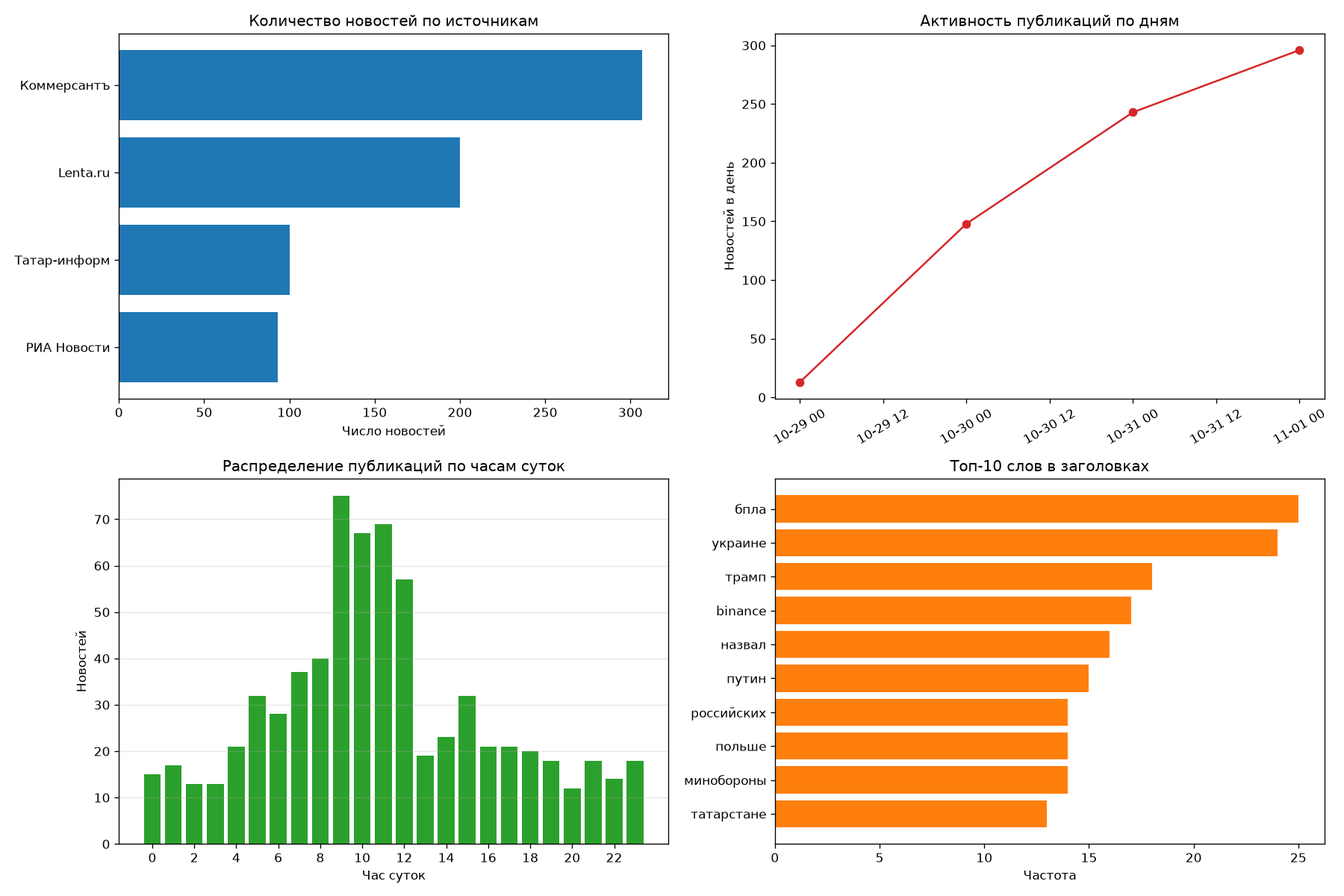
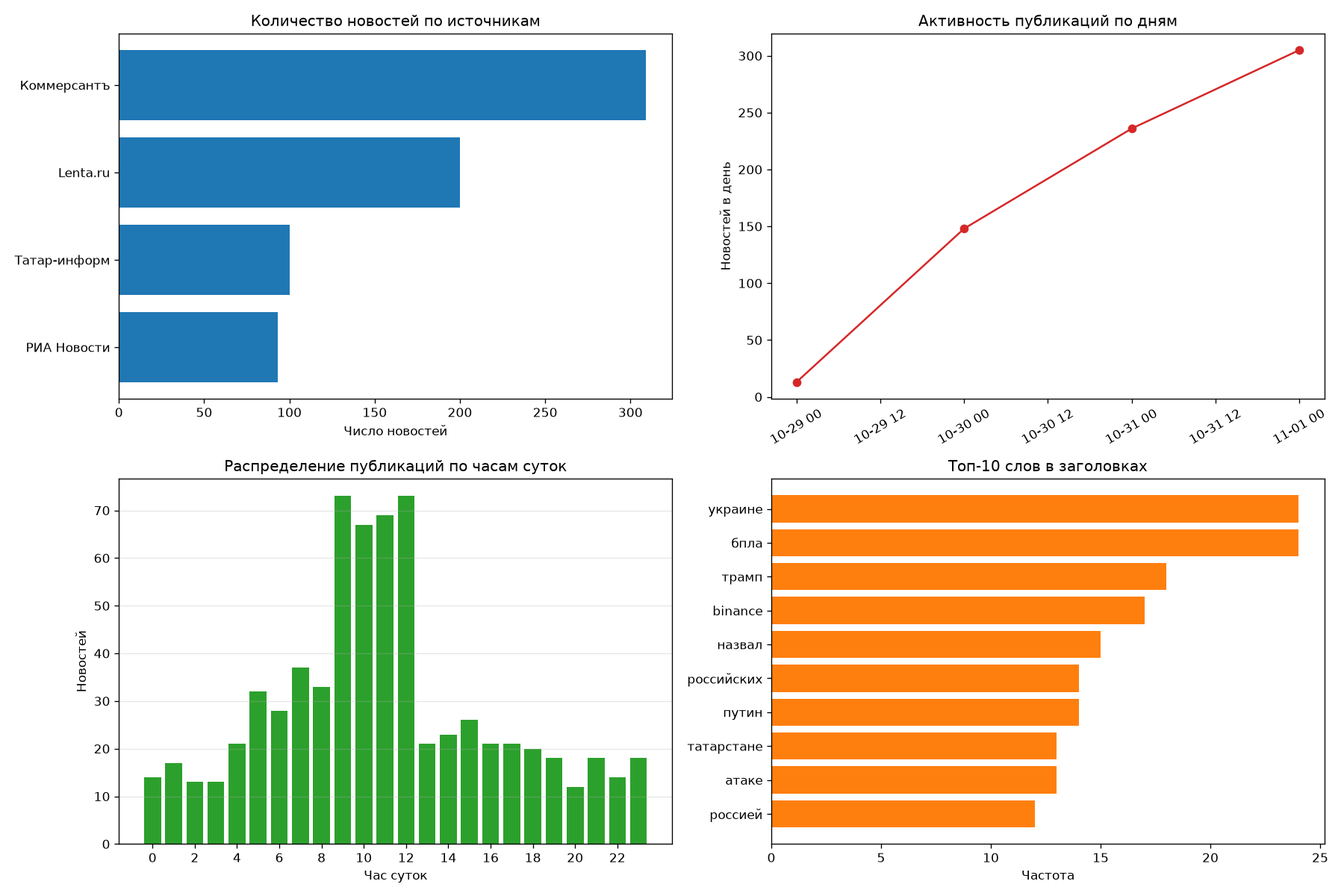
docs: complete HW3 - UI concepts, stories, tech spec

diff --git a/technical_specification.md b/technical_specification.md
@@ -1,0 +1,33 @@
+---
+project_name: Media-Pulse
+stack: "Python, Next.js, Supabase"
+---
+
+# Техническое задание: Медиа-Пульс
+
+## 1. Функциональные требования
+
+- **FR-1. Сбор новостей.** Система должна получать записи из настроенных RSS-лент при каждом плановом или ручном запуске сборщика, чтобы поддерживать новостную базу в актуальном состоянии.
+- **FR-2. Дедупликация и история.** Система должна проверять ссылку новости на уникальность при сохранении RSS-записи, чтобы повторный сбор не создавал дубликаты и сохранял историю обнаружения.
+- **FR-3. AI-категоризация.** Система должна отправлять новость со статусом `pending` на категоризацию и сохранять допустимую категорию при успешном ответе модели, чтобы пользователь мог анализировать публикации по темам.
+- **FR-4. Фильтрация.** Система должна фильтровать список новостей и связанные графики по выбранному диапазону дат, источнику и категории, чтобы пользователь мог исследовать нужный сегмент повестки.
+- **FR-5. Поиск.** Система должна находить новости по тексту заголовка при вводе поискового запроса, чтобы пользователь мог быстро обнаружить публикации о конкретном событии.
+- **FR-6. Переход к публикации.** Система должна открывать ссылку на первоисточник при выборе новости, чтобы пользователь мог прочитать полный материал и проверить контекст.
+
+## 2. Нефункциональные требования
+
+Целевые показатели ниже проверяются на staging-окружении с тестовым набором из 100 000 новостей. Результаты замера фиксируются вместе с конфигурацией стенда и версией приложения.
+
+- **NFR-1. Время загрузки:** главный дашборд должен отображаться не более чем за **2 секунды на 95-м перцентиле** при 50 одновременных пользовательских сессиях и прогретом кэше.
+- **NFR-2. Пропускная способность API:** API чтения новостей должен выдерживать **30 запросов в секунду в течение 10 минут** и кратковременный пик **60 запросов в секунду в течение 1 минуты**; p95 времени ответа не должен превышать **1 секунду**, доля ответов 5xx — **1%**.
+- **NFR-3. Обработка выборок:** запрос списка с фильтрами и пагинацией должен возвращать не более **100 записей на страницу** и укладываться в лимит NFR-2 на тестовом наборе данных.
+- **NFR-4. Безопасность:** доступ к данным Supabase проверяется RLS-политиками; ключ `service_role` не должен присутствовать в клиентском bundle, а API-ключи не должны попадать в Git, логи или ответы API.
+- **NFR-5. Надёжность сбора:** временный сбой RSS или AI-провайдера не должен удалять уже сохранённые статьи; ошибка и статус обработки должны сохраняться для диагностики и повторной обработки.
+
+## 3. Обработка ошибок
+
+- **Нет сети или сервис недоступен:** показать сообщение «Нет соединения. Проверьте интернет и попробуйте снова» и кнопку **«Обновить»**. Сохранить фильтры и поисковый запрос; если доступны кэшированные данные, пометить время их последнего обновления. Не показывать технический stack trace или секреты.
+- **Пустой результат поиска или фильтра:** показать «Новости не найдены», число результатов `0` и действие **«Сбросить фильтры»**. Считать это штатным состоянием, а не ошибкой сервера; не отображать вводящие в заблуждение графики.
+- **HTTP 401:** показать, что сессия завершилась, и кнопку **«Войти»**. После успешного входа вернуть пользователя к исходной странице, если это безопасно.
+- **HTTP 403:** показать «У вас нет доступа к этим данным» и предложить вернуться к дашборду или обратиться к администратору. Не повторять авторизацию бесконечно и не раскрывать закрытые данные.
+- **Ошибка AI-категоризации или ограничение 429:** сохранить статью, статус обработки и диагностический текст ошибки; выполнять ограниченные повторы с учётом `Retry-After`, не блокируя сбор RSS.

diff --git a/ui_concepts.md b/ui_concepts.md
@@ -1,0 +1,47 @@
+# Концепции интерфейса «Медиа-Пульс»
+
+## 1. Минимализм и таблицы
+
+**Стиль:** сдержанный рабочий интерфейс с нейтральной палитрой, компактной типографикой и высокой плотностью данных. Основной экран — таблица публикаций; фильтры по периоду, источнику и категории расположены над ней или в боковой панели. Графики доступны как отдельная вкладка или небольшая сводная область.
+
+**Ключевые особенности:**
+- Таблица с сортировкой по дате, источнику и категории.
+- Поиск по заголовкам и комбинируемые фильтры.
+- Компактная статистика: количество новостей и распределение по источникам.
+- Минимум декоративных элементов и переходов.
+
+**Преимущества:** удобно просматривать и сравнивать большое число публикаций; интерфейс быстрый и привычный для повторяющихся рабочих задач; проще реализовать и адаптировать для узких экранов.
+
+**Недостатки:** динамика повестки не видна сразу; таблица хуже помогает заметить тренды и аномалии; общий вид может казаться сухим.
+
+## 2. Дашборд с виджетами
+
+**Стиль:** аналитическая рабочая панель с четкой сеткой, где сводные показатели, графики и лента связаны общей системой фильтров. Используются карточки только для отдельных метрик и самостоятельных визуализаций; секции остаются открытыми и легко сканируются.
+
+**Ключевые особенности:**
+- Верхняя полоса с фильтрами и ключевыми числами за выбранный период.
+- Графики активности по дням, распределения по категориям и источникам.
+- Рядом с аналитикой — список релевантных новостей с быстрым переходом к источнику.
+- Единые состояния загрузки, пустой выборки и ошибки; фильтры обновляют все виджеты.
+
+**Преимущества:** одновременно показывает общую картину и конкретные публикации; помогает замечать всплески и изменения тематик; хорошо соответствует задачам аналитиков и поддерживает исследование «от тренда к источнику».
+
+**Недостатки:** требует продуманной иерархии, иначе много виджетов перегружают экран; нужно согласовать интервалы, агрегации и поведение общих фильтров; сложнее адаптировать плотную панель для мобильного экрана.
+
+## 3. Карточки новостей с крупными графиками
+
+**Стиль:** визуально выразительная лента публикаций, где каждая новость представлена крупной карточкой, а графики занимают значительную часть экрана. Категории выделяются цветом, графики и тренды становятся главным визуальным акцентом.
+
+**Ключевые особенности:**
+- Карточки с заголовком, источником, датой и заметной меткой категории.
+- Крупные графики по темам и динамике публикаций.
+- Визуальные акценты для новых или быстро растущих тем.
+- Упрощённое переключение между лентой и аналитикой.
+
+**Преимущества:** новости легче читать по одной; интерфейс наглядный и выразительный; подходит для редакционного мониторинга и презентации общей картины.
+
+**Недостатки:** карточки занимают много места и уменьшают число видимых публикаций; сравнивать длинные списки сложнее; крупные графики могут оттеснить фильтры и поиск, важные для анализа.
+
+## Рекомендация
+
+Для MVP рекомендуется **дашборд с виджетами**. Аналитикам важно не только читать новости, но и сопоставлять источники, категории и временную динамику. Общие фильтры, сводные графики и соседняя лента позволяют сначала обнаружить изменение повестки, а затем быстро проверить его по конкретным статьям. Чтобы не перегружать интерфейс, стоит начать с нескольких основных метрик и графиков, а дополнительные виджеты добавлять по результатам обратной связи.

diff --git a/user_journey.md b/user_journey.md
@@ -1,0 +1,48 @@
+# User Journey: Happy Path «Медиа-Пульс»
+
+**Персона:** аналитик, который проверяет утреннюю повестку и ищет публикации по интересующей теме.
+
+## Этап 1. Вход в систему
+
+- **User goal:** Открыть рабочее пространство и перейти к мониторингу новостей.
+- **Actions:** Пользователь открывает «Медиа-Пульс» и входит в аккаунт.
+- **Touchpoints:** Страница входа, форма авторизации, главное меню.
+- **Emotions:** Спокойствие и уверенность, что рабочее пространство готово.
+- **Pain points:** Ошибка авторизации или непонятное состояние загрузки может остановить сценарий.
+- **Improvements:** Показывать понятные сообщения об ошибках, сохранять безопасную сессию и давать явную индикацию загрузки.
+
+## Этап 2. Обзор текущей повестки
+
+- **User goal:** Быстро понять, сколько новостей поступило и какие темы активны.
+- **Actions:** Пользователь просматривает сводные показатели, график публикаций по дням и распределение по категориям и источникам.
+- **Touchpoints:** Главный дашборд, виджеты метрик, графики.
+- **Emotions:** Ориентированность и интерес; становится понятно, где наблюдается всплеск.
+- **Pain points:** Слишком много метрик или неясные подписи могут затруднить интерпретацию.
+- **Improvements:** Оставить на первом экране ключевые показатели, подписывать оси и периоды, показывать время последнего обновления данных.
+
+## Этап 3. Сужение выборки
+
+- **User goal:** Найти новости, относящиеся к конкретной теме и периоду.
+- **Actions:** Пользователь выбирает диапазон дат и категорию, при необходимости указывает источник или вводит запрос по заголовку.
+- **Touchpoints:** Панель фильтров, поле поиска, обновляемые графики и список новостей.
+- **Emotions:** Контроль над поиском и ощущение, что лишний информационный шум уменьшается.
+- **Pain points:** Неочевидное сочетание фильтров или сброс выбора может привести к неожиданной выдаче.
+- **Improvements:** Показывать активные фильтры, давать команду «Сбросить», применять фильтры согласованно ко всем виджетам и отображать число найденных публикаций.
+
+## Этап 4. Выбор релевантной новости
+
+- **User goal:** Определить, какая публикация лучше всего объясняет найденный тренд.
+- **Actions:** Пользователь сравнивает заголовки, категории, источники и даты в отфильтрованном списке, затем открывает подходящую запись.
+- **Touchpoints:** Таблица или лента новостей, метка AI-категории, дата публикации, источник и ссылка.
+- **Emotions:** Заинтересованность и уверенность в выборе материала.
+- **Pain points:** Неполные метаданные или ошибочная AI-категория могут снизить доверие к выдаче.
+- **Improvements:** Показывать источник и дату рядом с заголовком, разрешить сортировку и поиск, предусмотреть исправление или пометку неверной категории.
+
+## Этап 5. Чтение первоисточника
+
+- **User goal:** Прочитать новость полностью и проверить контекст.
+- **Actions:** Пользователь нажимает ссылку публикации и читает оригинальный материал на сайте издания.
+- **Touchpoints:** Строка или карточка новости, внешняя ссылка, сайт источника.
+- **Emotions:** Удовлетворение от найденного материала и ясность по теме.
+- **Pain points:** Внешняя ссылка может быть недоступна, вести на удалённую публикацию или открываться без контекста.
+- **Improvements:** Открывать первоисточник в новой вкладке, сохранять URL и краткое описание в записи новости, обозначать переход на внешний сайт.

diff --git a/user_stories.md b/user_stories.md
@@ -1,0 +1,97 @@
+# User Stories: «Медиа-Пульс»
+
+## US-01. Фильтрация по категории
+
+**Приоритет:** Must have
+
+**История:** Как аналитик, я хочу фильтровать новости по категории, чтобы быстро изучать публикации на интересующую тему.
+
+**Критерии приёмки:**
+
+```gherkin
+Feature: Фильтрация новостей по категории
+
+  Scenario: Показать новости выбранной категории
+    Given в ленте есть новости категорий "Политика" и "Экономика"
+    When аналитик выбирает категорию "Экономика"
+    Then в списке остаются только новости категории "Экономика"
+    And число найденных новостей соответствует отфильтрованному списку
+```
+
+## US-02. Просмотр графиков
+
+**Приоритет:** Must have
+
+**История:** Как аналитик, я хочу видеть графики публикационной активности и распределения новостей по категориям, чтобы замечать изменения и популярные темы.
+
+**Критерии приёмки:**
+
+```gherkin
+Feature: Аналитические графики
+
+  Scenario: Построить графики по доступным новостям
+    Given в системе есть новости с датами публикации и категориями
+    When аналитик открывает дашборд
+    Then он видит график количества публикаций по дням
+    And он видит распределение публикаций по категориям
+    And подписи графиков и значения доступны для выбранного набора данных
+```
+
+## US-03. Поиск новостей
+
+**Приоритет:** Must have
+
+**История:** Как журналист, я хочу искать новости по словам в заголовке, чтобы быстро находить публикации по нужному событию.
+
+**Критерии приёмки:**
+
+```gherkin
+Feature: Поиск по заголовку
+
+  Scenario: Найти новость по ключевому слову
+    Given в ленте есть новость с заголовком "Открытие нового музея"
+    When журналист вводит в поиск слово "музея"
+    Then в результатах отображается эта новость
+    And новости, заголовки которых не содержат это слово, не отображаются
+
+  Scenario: По запросу нет совпадений
+    Given в ленте нет заголовков с введённым словом
+    When журналист выполняет поиск
+    Then система показывает пустое состояние с сообщением, что новости не найдены
+```
+
+## US-04. Чтение полной новости
+
+**Приоритет:** Must have
+
+**История:** Как журналист, я хочу открыть полный текст новости у первоисточника, чтобы проверить детали и контекст публикации.
+
+**Критерии приёмки:**
+
+```gherkin
+Feature: Переход к первоисточнику
+
+  Scenario: Открыть полную новость
+    Given у новости в ленте есть действующая ссылка на источник
+    When журналист нажимает ссылку или кнопку "Читать источник"
+    Then полный материал открывается на сайте издания в новой вкладке
+    And исходная страница «Медиа-Пульс» остаётся открытой
+```
+
+## US-05. Фильтрация по периоду
+
+**Приоритет:** Should have
+
+**История:** Как аналитик, я хочу выбирать период публикаций, чтобы сравнивать повестку за нужные даты.
+
+**Критерии приёмки:**
+
+```gherkin
+Feature: Фильтрация по периоду
+
+  Scenario: Показать новости за выбранный период
+    Given в ленте есть новости до, внутри и после выбранного периода
+    When аналитик задаёт начальную и конечную даты
+    Then в списке отображаются только новости с датой публикации внутри периода
+    And графики пересчитываются по тому же периоду
+```

diff --git a/error_handling.md b/error_handling.md
@@ -1,0 +1,41 @@
+# Обработка ошибок и UX-сценарии
+
+Документ описывает ожидаемое поведение интерфейса «Медиа-Пульс» при сетевых ошибках, отсутствии результатов и проблемах с доступом. Текст ошибки должен быть понятен пользователю и не раскрывать технические детали, ключи или данные других пользователей.
+
+## 1. Нет интернета или ошибка сети
+
+**Сценарий:** браузер не может связаться с приложением, Supabase или внешним сервисом.
+
+**Что видит пользователь:** ненавязчивое сообщение «Нет соединения. Проверьте интернет и попробуйте снова» и кнопку **«Обновить»**. Если доступен кэш, показать сохранённые данные с пометкой времени последнего обновления и указать, что они могут быть устаревшими.
+
+**Поведение:**
+- Не очищать активные фильтры и введённый поисковый запрос.
+- Повторить загрузку только после действия пользователя или с ограниченным числом автоматических повторов.
+- Для неудачной отправки показывать, что данные не сохранены; не сообщать об успехе до подтверждения сервера.
+- Не выводить пользователю stack trace, адреса внутренних сервисов или секреты.
+
+## 2. База вернула пустой результат
+
+**Сценарий:** запрос успешно выполнен, но новостей, соответствующих выбранным фильтрам или поиску, нет.
+
+**Что видит пользователь:** пустое состояние с текстом «Новости не найдены» и предложением изменить период, категорию или поисковый запрос. Предусмотреть действие **«Сбросить фильтры»**.
+
+**Поведение:**
+- Не показывать это состояние как ошибку сервера.
+- Сохранить выбранные фильтры, пока пользователь сам их не изменит или не сбросит.
+- Отобразить нулевое количество результатов; не строить вводящие в заблуждение графики.
+- При полном отсутствии новостей в системе предложить проверить источники или повторить загрузку позже.
+
+## 3. Ошибки доступа 401 и 403
+
+### 401 — пользователь не авторизован
+
+**Что видит пользователь:** сообщение «Сессия завершилась. Войдите снова, чтобы продолжить» и кнопку **«Войти»**.
+
+**Поведение:** после входа вернуть пользователя на исходную страницу, если это безопасно; не повторять запросы бесконечно и не сбрасывать его фильтры без необходимости.
+
+### 403 — доступ запрещён
+
+**Что видит пользователь:** нейтральное сообщение «У вас нет доступа к этим данным» и, если уместно, действие **«Вернуться к дашборду»** или инструкцию обратиться к администратору.
+
+**Поведение:** не предлагать повторную авторизацию как решение, если пользователь уже вошёл; не раскрывать существование закрытых данных. Записывать детали для диагностики только в защищённый серверный лог, без токенов и чувствительного содержимого.

diff --git a/project_description.md b/project_description.md
@@ -1,0 +1,21 @@
+# Медиа-Пульс
+
+## Проблема
+
+Журналисты, аналитики и PR-специалисты ежедневно сталкиваются с большим потоком публикаций из разных источников. Вручную просматривать тысячи новостей, находить важные темы и замечать изменения в повестке долго и сложно; из-за этого значимые события легко пропустить.
+
+## Целевая аудитория
+
+- **Журналисты и редакторы** — для мониторинга новостей и поиска тем для материалов.
+- **Аналитики** — для изучения динамики публикаций и распределения внимания по темам и источникам.
+- **PR-специалисты** — для наблюдения за упоминаниями, реакцией медиа и изменениями информационной повестки.
+
+## Ключевые функции MVP
+
+1. **Умная новостная лента:** сбор новостей из RSS-источников, автоматическая категоризация с помощью ИИ и просмотр публикаций в едином интерфейсе.
+2. **Дашборд:** графики по источникам, категориям и активности публикаций во времени.
+3. **Поиск и фильтрация:** поиск по заголовкам и отбор новостей по периоду, источнику и категории.
+
+## Ценность продукта
+
+«Медиа-Пульс» сокращает время на сбор и первичный анализ новостей. Пользователь быстрее видит основные темы и изменения повестки, может сосредоточиться на интерпретации событий и принятии решений вместо ручного просмотра множества лент.
